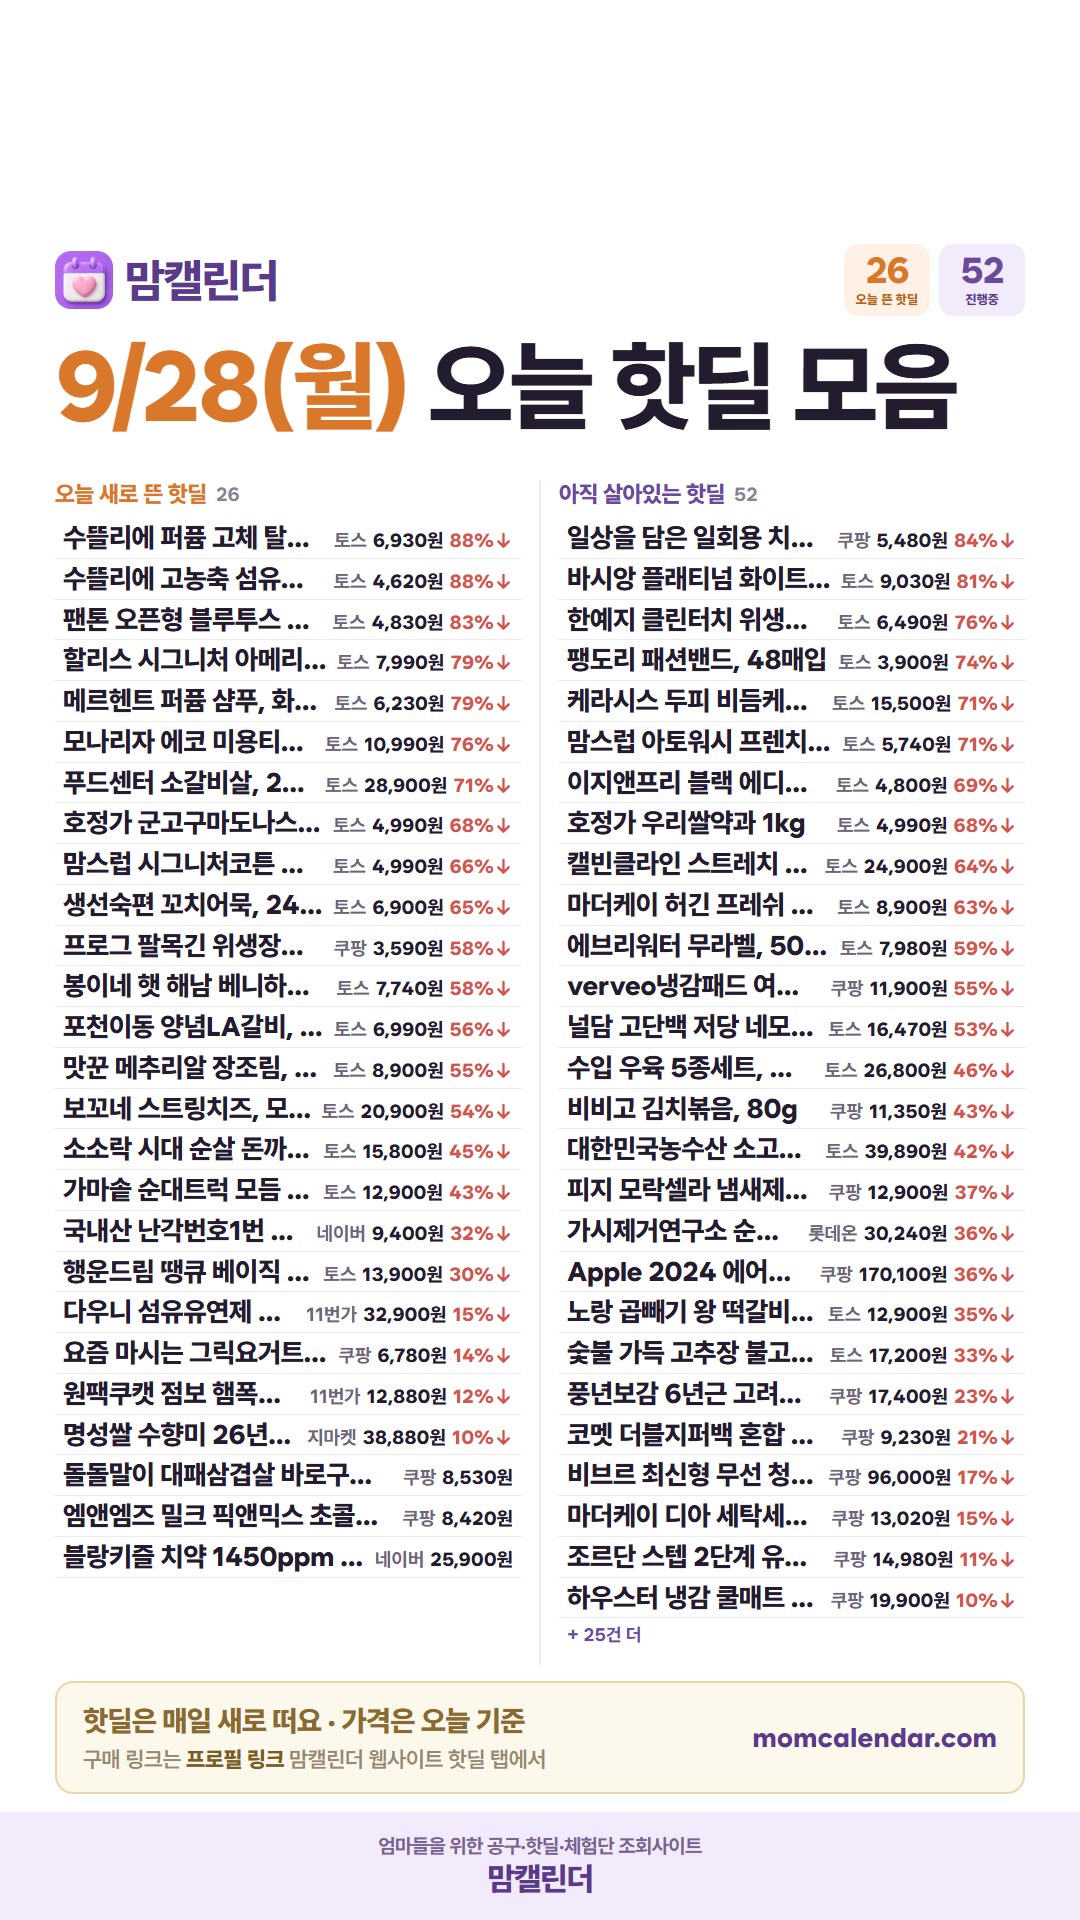
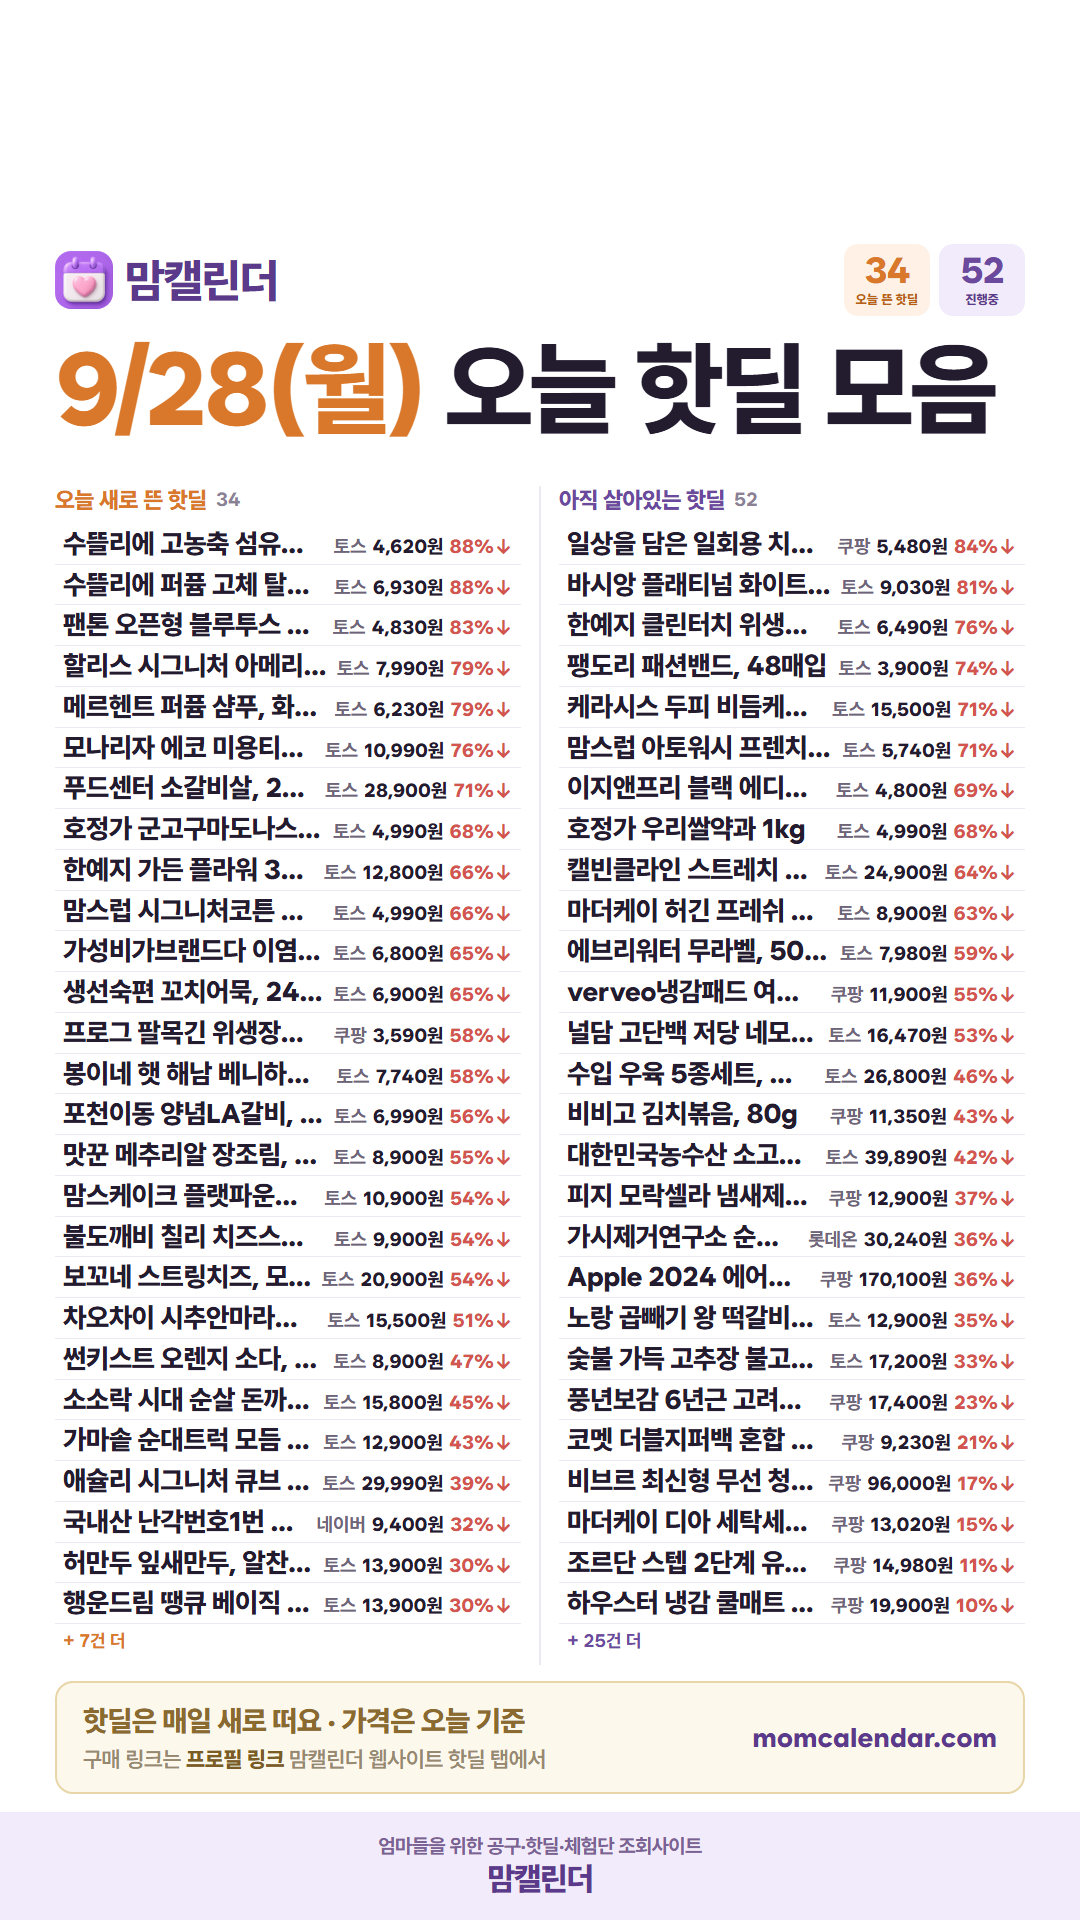
오늘 핫딜 카드 갱신 (저녁 등록 8건 반영, 스크린샷 방식)

Changed region(s): [[0.0611, 0.125, 0.9472, 0.875]]

diff --git a/daily/hotdeal.html b/daily/hotdeal.html
@@ -1,1 +1,3 @@
-<!DOCTYPE html><html lang="ko"><head><meta charset="UTF-8"><meta name="viewport" content="width=device-width,initial-scale=1"><meta name="robots" content="noindex"><title>오늘 핫딜 카드</title><style>body{margin:0;background:#3A3145;color:#fff;font-family:sans-serif;text-align:center;padding:14px}img{max-width:100%;height:auto;border-radius:12px}p{font-size:14px;color:#C9BFD8}</style></head><body><p>오늘 핫딜 카드 · 길게 눌러 저장 · 매일 아침 07:40 갱신</p><img src="hotdeal.png" alt="오늘 핫딜 카드"></body></html>
+<!DOCTYPE html><html lang="ko"><head><meta charset="UTF-8"><meta name="viewport" content="width=device-width,initial-scale=1"><meta name="robots" content="noindex"><title>오늘 핫딜 카드 2026-09-28</title>
+<style>body{margin:0;background:#3A3145;color:#fff;font-family:sans-serif;text-align:center;padding:14px}img{max-width:100%;height:auto;border-radius:12px}p{font-size:14px;color:#C9BFD8}</style></head>
+<body><p>2026-09-28 오늘 핫딜 카드 · 길게 눌러 저장 · 매일 아침 07:40 갱신</p><img src="hotdeal.png?v=1790597810839" alt="오늘 핫딜 카드"></body></html>
